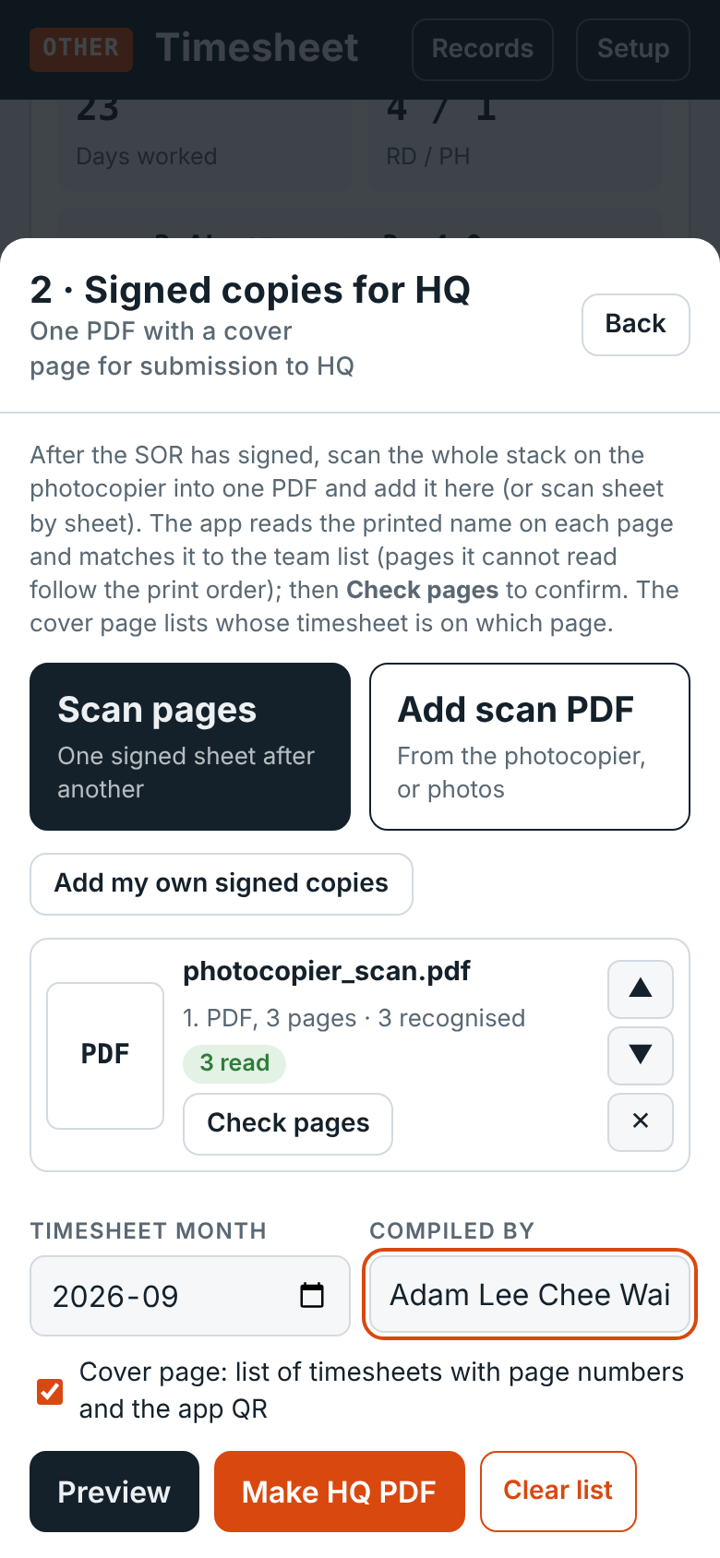
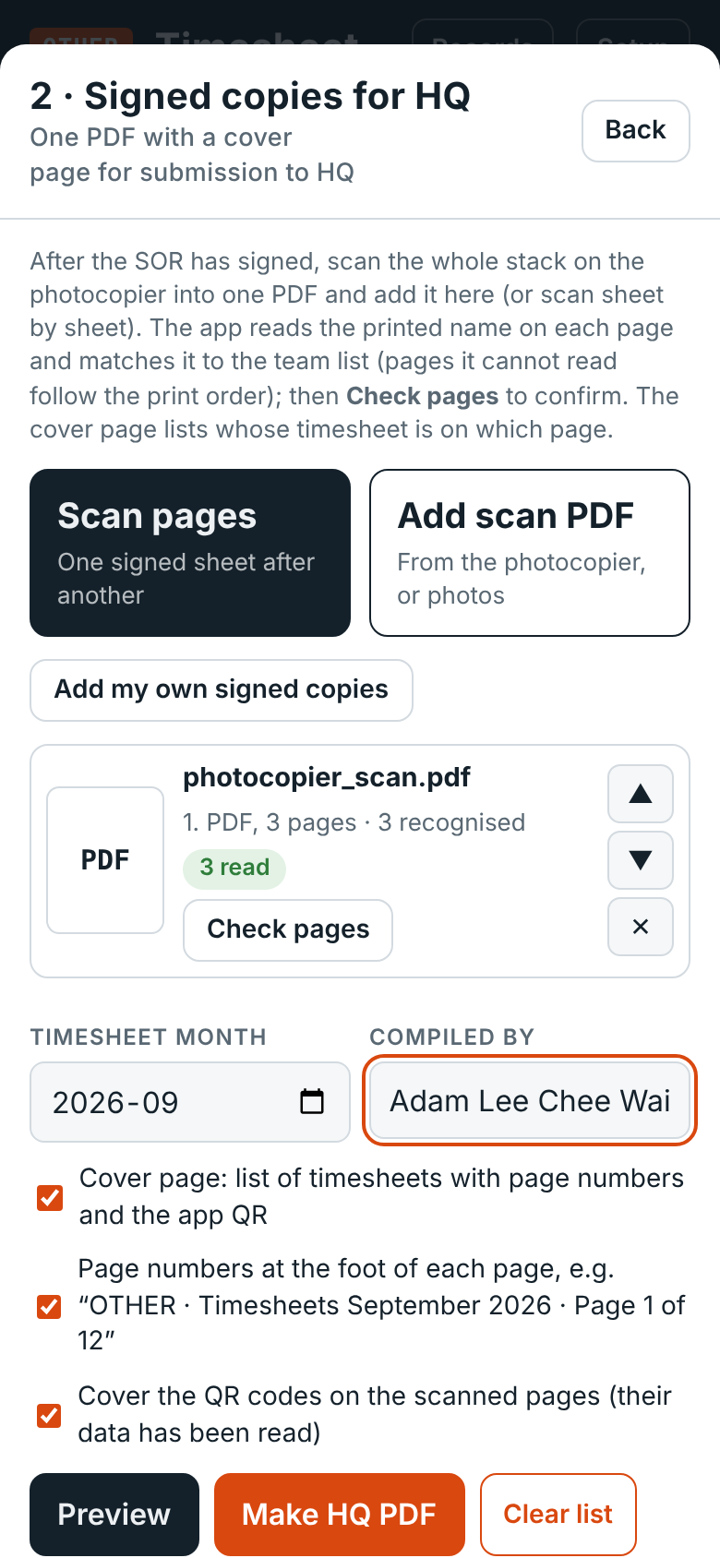
v0.9.7 beta - HQ page features
HQ page rotation, QR cover, footer option

diff --git a/index.html b/index.html
@@ -442,6 +442,8 @@ table.tbl td.n{font-family:var(--f-mono);text-align:right}
       <div><label class="lbl" for="b-month">Timesheet month</label><input type="month" id="b-month"></div>
       <div><label class="lbl" for="b-by">Compiled by</label><input type="text" id="b-by" placeholder="Name"></div>
       <div class="capopts span2"><label><input type="checkbox" id="b-cover" checked> Cover page: list of timesheets with page numbers and the app QR</label></div>
+      <div class="capopts span2"><label><input type="checkbox" id="b-footer" checked> <span>Page numbers at the foot of each page, e.g. “<span id="b-footer-eg">Timesheets · Page 1 of 12</span>”</span></label></div>
+      <div class="capopts span2"><label><input type="checkbox" id="b-hideqr" checked> Cover the QR codes on the scanned pages (their data has been read)</label></div>
     </div>
     <div class="btns"><button class="btn pri" id="b-preview" type="button">Preview</button><button class="btn acc" id="b-make" type="button">Make HQ PDF</button><button class="btn sm danger" id="b-clear" type="button">Clear list</button></div>
   </div>
@@ -1274,11 +1276,34 @@ function loadPdfLib() {
   if (window.PDFLib) return Promise.resolve();
   return PDFLibP || (PDFLibP = loadScript("lib/pdf-lib.min.js"));
 }
+/* a page thumbnail as it will appear in the HQ PDF: QR covered (if chosen), turned by deg */
+async function pageThumb(src, deg, box) {
+  if (!src) return "";
+  const img = await new Promise((res, rej) => { const i = new Image(); i.onload = () => res(i); i.onerror = rej; i.src = src; });
+  const base = document.createElement("canvas"); base.width = img.width; base.height = img.height; const b = base.getContext("2d"); b.drawImage(img, 0, 0);
+  if (box) { b.fillStyle = "#fff"; b.fillRect(box[0] * img.width, box[1] * img.height, (box[2] - box[0]) * img.width, (box[3] - box[1]) * img.height); }
+  return deg ? rotCanvas(base, deg).toDataURL("image/jpeg", 0.7) : base.toDataURL("image/jpeg", 0.7);
+}
+const hideQR = () => S.bundle.hideQR !== false, showFooter = () => S.bundle.footer !== false;
+/* box in the rendered page (0-1, from the top left, as shown with the page's own rotation r0) to PDF user space */
+function boxToPdf(b, r0, cb) {
+  const { x: ox, y: oy, width: w, height: h } = cb, map = (u, v) => r0 === 90 ? [v * w, u * h] : r0 === 180 ? [(1 - u) * w, v * h] : r0 === 270 ? [(1 - v) * w, (1 - u) * h] : [u * w, (1 - v) * h];
+  const a = map(b[0], b[1]), c = map(b[2], b[3]), x0 = Math.min(a[0], c[0]), y0 = Math.min(a[1], c[1]);
+  return { x: ox + x0, y: oy + y0, width: Math.abs(c[0] - a[0]), height: Math.abs(c[1] - a[1]) };
+}
+/* footer text at the bottom right of the page as viewed, whatever its rotation */
+function footerAt(p, tw) {
+  const { degrees } = PDFLib, R = ((p.getRotation().angle % 360) + 360) % 360, cb = p.getCropBox(), w = cb.width, h = cb.height, ox = cb.x, oy = cb.y;
+  if (R === 90) return { x: ox + w - 9, y: oy + h - 22 - tw, rotate: degrees(90) };
+  if (R === 180) return { x: ox + 22 + tw, y: oy + h - 9, rotate: degrees(180) };
+  if (R === 270) return { x: ox + 9, y: oy + 22 + tw, rotate: degrees(270) };
+  return { x: ox + w - 22 - tw, y: oy + 9, rotate: degrees(0) };
+}
 async function buildBundlePDF() {
   const items = await bundleItems();
-  S.bundle.month = $("#b-month").value || S.bundle.month; S.bundle.by = $("#b-by").value.trim() || S.bundle.by; S.bundle.cover = $("#b-cover").checked; save();
+  readBundleOpts();
   await loadPdfLib();
-  const { PDFDocument, StandardFonts, rgb } = PDFLib;
+  const { PDFDocument, StandardFonts, rgb, degrees } = PDFLib;
   const out = await PDFDocument.create();
   const font = await out.embedFont(StandardFonts.Helvetica);
   const A4 = [595.28, 841.89];
@@ -1293,26 +1318,39 @@ async function buildBundlePDF() {
   } else { const [by, bm] = (S.bundle.month || "").split("-").map(Number); claim = by ? `${MONTHS[bm - 1]} ${by}` : ""; }
   for (const it of items) {
     if (it.type === "application/pdf") {
-      try { const src = await PDFDocument.load(await it.blob.arrayBuffer(), { ignoreEncryption: true }); (await out.copyPages(src, src.getPageIndices())).forEach(pp => out.addPage(pp)); }
+      try {
+        const src = await PDFDocument.load(await it.blob.arrayBuffer(), { ignoreEncryption: true });
+        (await out.copyPages(src, src.getPageIndices())).forEach((pp, k) => {
+          const p = out.addPage(pp), r0 = ((p.getRotation().angle % 360) + 360) % 360, box = (it.qrb || [])[k];
+          if (hideQR() && box) p.drawRectangle(Object.assign(boxToPdf(box, r0, p.getCropBox()), { color: rgb(1, 1, 1) }));
+          const add = ((it.prot || [])[k] || 0) % 360; if (add) p.setRotation(degrees((r0 + add) % 360));
+        });
+      }
       catch (e) { console.warn(e); toast(`Could not read ${it.name}; it was left out.`); }
     } else {
       let blob = it.blob;
+      const box = hideQR() && (it.qrb || [])[0];
+      if (box) { const im = await loadImage(blob), cv = document.createElement("canvas"); cv.width = im.width; cv.height = im.height; const c = cv.getContext("2d"); c.drawImage(im, 0, 0); c.fillStyle = "#fff"; c.fillRect(box[0] * im.width, box[1] * im.height, (box[2] - box[0]) * im.width, (box[3] - box[1]) * im.height); blob = await new Promise(r => cv.toBlob(r, "image/jpeg", 0.88)); }
       if (it.rotate) blob = (await processImage(blob, { enhance: false, rotate: it.rotate })).blob;
       const bytes = await blob.arrayBuffer();
-      const img = it.type === "image/png" ? await out.embedPng(bytes) : await out.embedJpg(bytes);
+      const img = it.type === "image/png" && !box && !it.rotate ? await out.embedPng(bytes) : await out.embedJpg(bytes);
       const land = img.width > img.height, [pw, ph] = land ? [A4[1], A4[0]] : A4;
       const p = out.addPage([pw, ph]), m = 18, sc = Math.min((pw - 2 * m) / img.width, (ph - 2 * m - 10) / img.height);
       const w = img.width * sc, h = img.height * sc; p.drawImage(img, { x: (pw - w) / 2, y: (ph - h) / 2 + 5, width: w, height: h });
     }
   }
-  // page numbers on every page
+  // page numbers at the foot of every page (optional), the right way up on turned pages
   const n = out.getPageCount(), ref = `${S.pkg} · Timesheets ${claim}`;
-  out.getPages().forEach((p, i) => {
-    const { width } = p.getSize(), t = `${ref} · Page ${i + 1} of ${n}`, tw = font.widthOfTextAtSize(t, 7);
-    p.drawText(t, { x: width - 22 - tw, y: 9, size: 7, font, color: rgb(0.45, 0.45, 0.45) });
+  if (showFooter()) out.getPages().forEach((p, i) => {
+    const t = `${ref} · Page ${i + 1} of ${n}`, tw = font.widthOfTextAtSize(t, 7);
+    p.drawText(t, Object.assign(footerAt(p, tw), { size: 7, font, color: rgb(0.45, 0.45, 0.45) }));
   });
   out.setTitle(`Timesheet submission ${claim}`); out.setCreator(`${APP_CREDIT} (v${APP_VERSION})`);
   return { bytes: await out.save(), name: `TIMESHEETS_${S.pkg}_${S.bundle.month || "SUBMISSION"}_SIGNED.pdf`, claim };
+}
+function readBundleOpts() {
+  S.bundle.month = $("#b-month").value || S.bundle.month; S.bundle.by = $("#b-by").value.trim() || S.bundle.by; S.bundle.cover = $("#b-cover").checked;
+  S.bundle.hideQR = $("#b-hideqr").checked; S.bundle.footer = $("#b-footer").checked; save();
 }
 async function makeBundle() {
   if (!(await bundleItems()).length) { toast("Add the signed copies first."); return; }
@@ -1324,16 +1362,16 @@ async function makeBundle() {
 async function previewBundle() {
   const items = await bundleItems();
   if (!items.length) { toast("Add the signed copies first."); return; }
-  S.bundle.month = $("#b-month").value || S.bundle.month; S.bundle.by = $("#b-by").value.trim() || S.bundle.by; S.bundle.cover = $("#b-cover").checked; save();
+  readBundleOpts();
   if (!LOGO_DATAURL) await logoDataURL("templates/logo.jpeg");
   let h = "", pg = 0;
   if (S.bundle.cover !== false) { const cv = coverOps(items); cv.pages.forEach(ops => { pg++; h += `<div class="pvpage"><div class="pvsheet">${opsSVG(ops, cv.W, cv.H)}</div><span>Page ${pg} · cover</span></div>`; }); }
   for (const it of items) {
-    if (it.type === "application/pdf" && (it.thumbs || []).length) { it.thumbs.forEach((t, k) => { pg++; const l = (it.labels || [])[k]; h += `<div class="pvpage"><div class="pvsheet"><img src="${t}" alt=""></div><span>Page ${pg} · ${esc((l && l.who) || "—")}</span></div>`; }); }
+    if (it.type === "application/pdf" && (it.thumbs || []).length) { for (const [k, t] of it.thumbs.entries()) { pg++; const l = (it.labels || [])[k], u = await pageThumb(t, (it.prot || [])[k] || 0, hideQR() ? (it.qrb || [])[k] : null); h += `<div class="pvpage"><div class="pvsheet"><img src="${u}" alt=""></div><span>Page ${pg} · ${esc((l && l.who) || "—")}</span></div>`; } }
     else if (it.type === "application/pdf") { h += `<div class="pvpage"><div class="pvsheet pvpdf"><b>PDF</b><span>${esc(it.name)}</span><span>${it.pages} page${it.pages > 1 ? "s" : ""}</span></div><span>Page ${pg + 1}${it.pages > 1 ? "–" + (pg + it.pages) : ""} · ${esc(it.who || "—")}</span></div>`; pg += it.pages; }
     else { pg++; const u = URL.createObjectURL(it.blob); h += `<div class="pvpage"><div class="pvsheet"><img src="${u}" alt="" style="transform:rotate(${it.rotate || 0}deg)"></div><span>Page ${pg} · ${esc(it.who || "—")} ${esc(it.month || "")}</span></div>`; }
   }
-  genSheet("Preview: HQ PDF", `${pg} page${pg > 1 ? "s" : ""}`, `<div class="pvlist">${h}</div><div class="btns"><button class="btn acc" type="button" id="pv-make">Make HQ PDF</button></div>`);
+  genSheet("Preview: HQ PDF", `${pg} page${pg > 1 ? "s" : ""}${showFooter() ? "" : " · no page numbers"}${hideQR() ? " · QR codes covered" : ""}`, `<div class="pvlist">${h}</div><div class="btns"><button class="btn acc" type="button" id="pv-make">Make HQ PDF</button></div>`);
   $("#pv-make").onclick = () => { closeSheet("#sh-gen"); makeBundle(); };
 }
 async function previewTeam() {
@@ -2172,8 +2210,27 @@ async function readPageId(src, w, h) {
     const sc = Math.min(1, 1500 / Math.max(sw, sh)), cv = document.createElement("canvas"); cv.width = Math.round(sw * sc); cv.height = Math.round(sh * sc);
     const c = cv.getContext("2d", { willReadFrequently: true }); c.fillStyle = "#fff"; c.fillRect(0, 0, cv.width, cv.height); c.drawImage(src, sx, sy, sw, sh, 0, 0, cv.width, cv.height);
     let t = null; try { t = await decodeQRFromCanvas(cv); } catch (e) {}
-    const id = parsePageId(t); if (id) return id;
+    const id = parsePageId(t); if (!id) continue;
+    // where the QR is (to cover it in the HQ PDF) and which way up the page is
+    try { const g = await qrGeometry(cv); if (g) {
+      const P = q => ({ x: (sx + q.x / sc) / w, y: (sy + q.y / sc) / h }), tl = P(g.tl), tr = P(g.tr), br = P(g.br), bl = P(g.bl), pts = [tl, tr, br, bl];
+      if (/^TS1\|/.test(t)) {   // the full data QR has two lines of small text to its left: cover them too
+        const vx = (tr.x - tl.x) * w, vy = (tr.y - tl.y) * h, len = Math.hypot(vx, vy) || 1, k = 3.2 * len;
+        [tl, bl].forEach(q => pts.push({ x: q.x - vx / len * k / w, y: q.y - vy / len * k / h }));
+      }
+      const xs = pts.map(q => q.x), ys = pts.map(q => q.y), pad = 0.12 * Math.hypot((tr.x - tl.x) * w, (tr.y - tl.y) * h);
+      id.qrBox = [Math.max(0, Math.min(...xs) - pad / w), Math.max(0, Math.min(...ys) - pad / h), Math.min(1, Math.max(...xs) + pad / w), Math.min(1, Math.max(...ys) + pad / h)];
+      if (g.oriented) { const a = Math.atan2((tr.y - tl.y) * h, (tr.x - tl.x) * w) * 180 / Math.PI; id.rot = (360 - (Math.round(a / 90) * 90 + 360) % 360) % 360; }
+    } } catch (e) {}
+    return id;
   }
+  return null;
+}
+/* corners of the QR in a canvas: jsQR gives them in the symbol's own frame (so the page orientation follows) */
+async function qrGeometry(cv) {
+  try { await loadJsQR(); const ctx = cv.getContext("2d", { willReadFrequently: true }), r = jsQR(ctx.getImageData(0, 0, cv.width, cv.height).data, cv.width, cv.height, { inversionAttempts: "attemptBoth" });
+    if (r) { const L = r.location; return { tl: L.topLeftCorner, tr: L.topRightCorner, br: L.bottomRightCorner, bl: L.bottomLeftCorner, oriented: true }; } } catch (e) {}
+  if ("BarcodeDetector" in window) { try { const d = await new BarcodeDetector({ formats: ["qr_code"] }).detect(cv); if (d.length) { const b = d[0].boundingBox; return { tl: { x: b.x, y: b.y }, tr: { x: b.x + b.width, y: b.y }, br: { x: b.x + b.width, y: b.y + b.height }, bl: { x: b.x, y: b.y + b.height }, oriented: false }; } } catch (e) {} }
   return null;
 }
 async function pageIdsFor(blob, type) {
@@ -2373,16 +2430,17 @@ async function analysePages(blob, type) {
   const names = team.map(d => d.profile.name), out = []; let ocrErr = "";
   await pageCanvases(blob, type, async (cv, i, n) => {
     $("#busy-msg").textContent = `Reading page ${i + 1} of ${n}…`;
-    let label = null;
+    let label = null, rot = null, qrBox = null;
     const id = await readPageId(cv, cv.width, cv.height).catch(() => null);
-    if (id) label = Object.assign({ who: id.who, ym: id.ym, via: "qr", rec: id.rec }, id.hrs != null ? { hrs: id.hrs, ot: id.ot, desig: id.desig } : {});
+    if (id) { label = Object.assign({ who: id.who, ym: id.ym, via: "qr", rec: id.rec }, id.hrs != null ? { hrs: id.hrs, ot: id.ot, desig: id.desig } : {}); if (id.rot != null) rot = id.rot; qrBox = id.qrBox || null; }
     let crop = "";
     if (!label && !ocrErr) {
       const r = await readNameOnPage(cv, names);
       if (r.error) ocrErr = r.error;
-      else { crop = r.crop; if (r.match) { const d = teamFor(r.match); label = { who: r.match, ym: d ? d.month : "", via: "name", score: +r.score.toFixed(2), raw: r.raw }; } else if (r.raw) label = { who: "", raw: r.raw, via: "unsure" }; }
+      else { crop = r.crop; rot = r.rot; if (r.match) { const d = teamFor(r.match); label = { who: r.match, ym: d ? d.month : "", via: "name", score: +r.score.toFixed(2), raw: r.raw }; } else if (r.raw) label = { who: "", raw: r.raw, via: "unsure" }; }
     }
-    out.push({ label, thumb: thumbOf(cv), crop });
+    if (rot == null) rot = cv.height > cv.width ? 90 : 0;     // a portrait page holds the landscape form turned
+    out.push({ label, thumb: thumbOf(cv), crop, rot, qrBox });
   });
   // pages still unknown: remaining team names in print order (marked so they are checked)
   const used = new Set(out.map(p => p.label && p.label.who && normName(p.label.who)).filter(Boolean));
@@ -2406,10 +2464,15 @@ function pcFields(k, l) {
 async function openPageCheck(id) {
   const it = await DB.get(id); if (!it) return;
   const names = team.map(d => d.profile.name), labels = it.labels || [], thumbs = it.thumbs || [], crops = it.crops || [];
+  const isPdf = it.type === "application/pdf", prot = Array.from({ length: it.pages }, (_, k) => (it.prot || [])[k] || 0);
+  const tview = async k => isPdf ? pageThumb(thumbs[k], prot[k], hideQR() ? (it.qrb || [])[k] : null) : thumbs[k] || "";
+  const views = []; for (let k = 0; k < it.pages; k++) views.push(await tview(k));
   const VIA = { qr: "from the QR", name: "name read", order: "print order: check", unsure: "not sure: check" };
   genSheet("Check pages", `${esc(it.name)} · ${it.pages} page${it.pages > 1 ? "s" : ""}`, `
-    <div class="rglist">${Array.from({ length: it.pages }, (_, k) => { const l = labels[k] || {}; return `<div class="rgrow" style="grid-template-columns:72px minmax(0,1fr);display:grid;gap:8px;align-items:start">
-      <img src="${thumbs[k] || ""}" alt="" style="width:72px;border:1px solid var(--line);border-radius:4px;background:#fff">
+    ${isPdf ? `<div class="btns" style="margin-bottom:6px"><button class="btn sm" type="button" data-protall="-90">⟲ Turn all left</button><button class="btn sm" type="button" data-protall="90">⟳ Turn all right</button><span class="small muted" style="align-self:center">Pages are turned upright automatically where the app can tell. The cover page stays portrait.</span></div>` : ""}
+    <div class="rglist">${Array.from({ length: it.pages }, (_, k) => { const l = labels[k] || {}; return `<div class="rgrow" style="grid-template-columns:96px minmax(0,1fr);display:grid;gap:8px;align-items:start">
+      <div style="display:grid;gap:4px;justify-items:center"><img data-pthumb="${k}" src="${views[k]}" alt="" style="width:96px;max-height:96px;object-fit:contain;border:1px solid var(--line);border-radius:4px;background:#fff">
+        ${isPdf ? `<div style="display:flex;gap:4px"><button class="btn sm" type="button" data-prot="${k}|-90" aria-label="Turn page ${k + 1} left" style="min-width:40px">⟲</button><button class="btn sm" type="button" data-prot="${k}|90" aria-label="Turn page ${k + 1} right" style="min-width:40px">⟳</button></div>` : ""}</div>
       <div style="display:grid;gap:5px;min-width:0"><b class="small">Page ${k + 1} <span class="tag ${l.via === "qr" || l.via === "name" ? "ok" : "need"}">${VIA[l.via] || "not recognised"}</span></b>
         ${crops[k] ? `<img src="${crops[k]}" alt="Name as read" style="width:100%;border:1px solid var(--line);border-radius:4px">` : ""}
         <input type="text" data-pk="${k}" value="${esc(l.who || "")}" placeholder="Name (blank: not a timesheet)" list="team-names" aria-label="Name on page ${k + 1}">
@@ -2424,6 +2487,11 @@ async function openPageCheck(id) {
     ["desig", "hrs", "ot"].forEach(f => { const el = box.querySelector(`[data-f="${f}"]`); if (el && (el.value === "" || el.value === el.dataset.auto)) el.value = a[f]; if (el) el.dataset.auto = a[f]; });
     const hint = box.querySelector("[data-pch]"); if (hint) hint.textContent = who && !box.querySelector('[data-f="hrs"]').value ? "No hours found: type them from the signed copy" : "";
   };
+  $("#gen-body").onclick = async e => {
+    const one = e.target.closest("[data-prot]"), all = e.target.closest("[data-protall]"); if (!one && !all) return;
+    const ks = one ? [Number(one.dataset.prot.split("|")[0])] : prot.map((_, k) => k), d = Number(one ? one.dataset.prot.split("|")[1] : all.dataset.protall);
+    for (const k of ks) { prot[k] = ((prot[k] + d) % 360 + 360) % 360; const im = $(`#gen-body [data-pthumb="${k}"]`); if (im) im.src = await tview(k); }
+  };
   $("#pc-save").onclick = async () => {
     $$("#gen-body input[data-pk]").forEach(inp => {
       const k = Number(inp.dataset.pk), typed = inp.value.trim(), d = teamFor(typed), who = d ? d.profile.name : typed, old = labels[k] || {};
@@ -2437,7 +2505,7 @@ async function openPageCheck(id) {
       if (o != null && fmt1(o) !== auto.ot) ed.ot = o;
       if (Object.keys(ed).length) labels[k].edit = ed; else delete labels[k].edit;
     });
-    it.labels = labels; await DB.put(it); closeSheet("#sh-gen"); renderHQ(); toast("Pages saved.");
+    it.labels = labels; if (isPdf) it.prot = prot; await DB.put(it); closeSheet("#sh-gen"); renderHQ(); toast("Pages saved.");
   };
 }
 
@@ -2502,10 +2570,11 @@ async function addBundle(files, meta = {}) {
       const pages = type === "application/pdf" ? await pdfPageCount(blob) : 1;
       let pagesInfo = []; try { pagesInfo = await analysePages(blob, type); } catch (e) { console.warn(e); toast("Could not read the pages: " + e.message); }
       const labels = pagesInfo.map(x => x.label), thumbs = pagesInfo.map(x => x.thumb), crops = pagesInfo.map(x => x.crop);
+      const prot = pagesInfo.map(x => type === "application/pdf" ? x.rot || 0 : 0), qrb = pagesInfo.map(x => x.qrBox || null);
       found += labels.filter(l => l && (l.via === "qr" || l.via === "name")).length; total += labels.length || pages;
       labels.forEach(l => { if (l && l.rec && !team.some(t => normName(t.profile.name) === normName(l.who) && t.month === l.ym)) { addTeamRecord(l.rec); addedTeam++; } delete (l || {}).rec; });
       const l0 = labels.length === 1 ? labels[0] : null;
-      await DB.put({ id: uid(), scope: "bundle", name: f.name || "page.jpg", type, blob, order: order++, labels, thumbs, crops, who: (l0 && l0.who) || meta.who || g.who || "", month: (l0 && ymLabel(l0.ym)) || meta.month || g.month || "", ym: (l0 && l0.ym) || "", pages: labels.length || pages, rotate: 0, added: new Date().toISOString() });
+      await DB.put({ id: uid(), scope: "bundle", name: f.name || "page.jpg", type, blob, order: order++, labels, thumbs, crops, prot, qrb, who: (l0 && l0.who) || meta.who || g.who || "", month: (l0 && ymLabel(l0.ym)) || meta.month || g.month || "", ym: (l0 && l0.ym) || "", pages: labels.length || pages, rotate: 0, added: new Date().toISOString() });
     }
   });
   if (total) toast(`${found} of ${total} page${total > 1 ? "s" : ""} recognised${addedTeam ? `; ${addedTeam} added to the team list` : ""}. Tap Check pages to confirm.`);
@@ -2531,7 +2600,7 @@ async function renderHQ() {
   $("#b-list").innerHTML = h || `<div class="empty"><ol class="steps small"><li><span>Collect the signed hardcopies from the team.</span></li><li><span><b>Scan pages</b>: one sheet after another, the edges are found for you.</span></li><li><span>Type the name and month for each, then <b>Make HQ PDF</b> and send it to HQ.</span></li></ol></div>`;
   if (document.activeElement?.id !== "b-month") $("#b-month").value = S.bundle.month || curYM();
   if (document.activeElement?.id !== "b-by") $("#b-by").value = S.bundle.by || S.profile.name || "";
-  $("#b-cover").checked = S.bundle.cover !== false;
+  $("#b-cover").checked = S.bundle.cover !== false; $("#b-footer").checked = showFooter(); $("#b-footer-eg").textContent = `${S.pkg} · Timesheets ${ymLabel(S.bundle.month || curYM())} · Page 1 of 12`; $("#b-hideqr").checked = hideQR();
   // team
   renderMarkSeg();
   $("#t-signall").hidden = !(roleIs("re") && S.digiSign); $("#t-re-note").hidden = !(roleIs("re") && S.digiSign);
@@ -2551,7 +2620,7 @@ async function renderHQ() {
    ================================================================ */
 function openSheet(id) { $(id).hidden = false; document.body.style.overflow = "hidden"; }
 function closeSheet(id) { $(id).hidden = true; if (!$$(".sheet:not([hidden])").length && $("#cam").hidden) document.body.style.overflow = ""; }
-function genSheet(title, sub, html) { $("#gen-title").firstChild.textContent = title; $("#gen-sub").textContent = sub || ""; $("#gen-body").innerHTML = html; $("#gen-body").onchange = null; openSheet("#sh-gen"); }
+function genSheet(title, sub, html) { $("#gen-title").firstChild.textContent = title; $("#gen-sub").textContent = sub || ""; $("#gen-body").innerHTML = html; $("#gen-body").onchange = null; $("#gen-body").onclick = null; openSheet("#sh-gen"); }
 let toastT = 0;
 function toast(msg) { const t = $("#toast"); t.textContent = msg; t.hidden = false; clearTimeout(toastT); toastT = setTimeout(() => t.hidden = true, 3200); }
 
@@ -2784,6 +2853,8 @@ function wire() {
   $("#b-month").onchange = e => { S.bundle.month = e.target.value; save(); };
   $("#b-by").onchange = e => { S.bundle.by = e.target.value; save(); };
   $("#b-cover").onchange = e => { S.bundle.cover = e.target.checked; save(); };
+  $("#b-footer").onchange = e => { S.bundle.footer = e.target.checked; save(); };
+  $("#b-hideqr").onchange = e => { S.bundle.hideQR = e.target.checked; save(); };
   $("#b-make").onclick = makeBundle;
   $("#b-preview").onclick = () => busy("Preparing the preview…", previewBundle);
   $("#t-preview").onclick = previewTeam;

diff --git a/sw.js b/sw.js
@@ -1,6 +1,6 @@
 /* Offline use: network first (so updates arrive), cached copy when there is no signal.
    Bump the version after changing files so phones fetch the new ones. */
-const C = "ts-v0.9.7-3";
+const C = "ts-v0.9.7-4";
 const PRE = ["./", "index.html", "manifest.webmanifest", "icon-192.png", "icon-512.png",
   "lib/jspdf.umd.min.js", "lib/jszip.min.js", "lib/pdf-lib.min.js", "lib/qrcode.min.js", "lib/jsQR.min.js", "lib/pdfjs.min.js", "lib/pdfjs.worker.min.js",
   "app-data.js", "templates/form.xlsx", "templates/form.layout.json", "templates/logo.jpeg",

diff --git a/tests/test_hq_pages.py b/tests/test_hq_pages.py
@@ -1,0 +1,91 @@
+"""HQ PDF from a photocopier scan: pages turned upright, QR codes covered, footer optional.
+
+    python3 -m http.server 8765 &
+    python3 tests/test_hq_pages.py [outdir]
+
+Three timesheets are printed (two with the summary QR, one with the full data QR) and
+"photocopied" at 200 dpi onto portrait pages: page 1 turned clockwise, page 2 anticlockwise,
+page 3 upright landscape. The HQ PDF must keep the cover portrait, show every timesheet
+landscape and upright, have the QR areas blank, and put the footer only when asked.
+"""
+import base64, subprocess, sys
+from pathlib import Path
+from PIL import Image
+from playwright.sync_api import sync_playwright
+
+URL = "http://localhost:8765/index.html"
+OUT = Path(sys.argv[1] if len(sys.argv) > 1 else "test-out"); OUT.mkdir(exist_ok=True)
+errors = []
+B64 = "const b = new Uint8Array(bytes); let s=''; for (let i=0;i<b.length;i+=8192) s += String.fromCharCode(...b.subarray(i,i+8192)); return btoa(s);"
+
+with sync_playwright() as p:
+    br = p.chromium.launch()
+    pg = br.new_page(viewport={"width": 390, "height": 844})
+    pg.on("pageerror", lambda e: errors.append(str(e)))
+    pg.on("dialog", lambda d: d.accept())
+    pg.goto(URL); pg.wait_for_selector("#w-name")
+    pg.fill("#w-name", "Ts. Adam Lee Chee Wai"); pg.click("#w-go")
+    r = pg.evaluate("""async () => {
+        S.ui.y = 2026; S.ui.m = 8; save(); fillMonth(false); S.profile.status = 'Resident Engineer'; S.role = 'compiler'; save();
+        const o = S.over[S.pkg] = S.over[S.pkg] || {};
+        team = []; addTeamRecord(dataRecord());
+        const d2 = dataRecord(); d2.profile.name = 'Nurul Aina binti Hassan'; d2.profile.status = 'Inspector of Works'; addTeamRecord(d2);
+        const d3 = dataRecord(); d3.profile.name = 'Mohd Hafiz bin Kassim'; d3.profile.status = 'Site Engineer'; addTeamRecord(d3);
+        o.pageId = 'sum'; save(); const a = await makePDF([teamSheet(team[0]), teamSheet(team[1])], 'a');
+        o.pageId = 'data'; save(); const b = await makePDF([teamSheet(team[2])], 'b');
+        o.pageId = 'off'; save();
+        await loadPdfJs(); await loadPdfLib();
+        const out = await PDFLib.PDFDocument.create(), turns = [90, -90, 0];
+        let idx = 0;
+        for (const blob of [a, b]) {
+          const pdf = await pdfjsLib.getDocument({data: new Uint8Array(await blob.arrayBuffer())}).promise;
+          for (let i = 1; i <= pdf.numPages; i++, idx++) {
+            const page = await pdf.getPage(i), vp = page.getViewport({scale: 200 / 72});
+            let cv = document.createElement('canvas'); cv.width = vp.width; cv.height = vp.height;
+            await page.render({canvasContext: cv.getContext('2d'), viewport: vp}).promise;
+            const t = turns[idx];
+            if (t) { const r = document.createElement('canvas'); r.width = cv.height; r.height = cv.width; const x = r.getContext('2d'); x.translate(r.width / 2, r.height / 2); x.rotate(t * Math.PI / 180); x.drawImage(cv, -cv.width / 2, -cv.height / 2); cv = r; }
+            const jpg = await new Promise(res => cv.toBlob(res, 'image/jpeg', .8)), img = await out.embedJpg(await jpg.arrayBuffer());
+            const pp = out.addPage([img.width * 72 / 200, img.height * 72 / 200]); pp.drawImage(img, {x: 0, y: 0, width: pp.getWidth(), height: pp.getHeight()});
+          }
+        }
+        const scan = new File([await out.save()], 'photocopier.pdf', {type: 'application/pdf'});
+        await addBundle([scan]);
+        const it = (await bundleItems())[0];
+        $('#b-month').value = '2026-09';
+        const pdfOf = async () => { const res = await buildBundlePDF(); const bytes = res.bytes; """ + B64 + """ };
+        const withFooter = await pdfOf();
+        $('#b-footer').checked = false; const noFooter = await pdfOf();
+        return { prot: it.prot, qrb: it.qrb.map(b => !!b), who: it.labels.map(l => l && l.who), withFooter, noFooter };
+    }""")
+    (OUT / "hq_footer.pdf").write_bytes(base64.b64decode(r.pop("withFooter")))
+    (OUT / "hq_nofooter.pdf").write_bytes(base64.b64decode(r.pop("noFooter")))
+    print(r)
+    assert r["prot"] == [270, 90, 0], r["prot"]          # turns that put each page upright
+    assert r["qrb"] == [True, True, True], r["qrb"]
+    br.close()
+
+info = subprocess.run(["pdfinfo", "-f", "1", "-l", "4", str(OUT / "hq_footer.pdf")], capture_output=True, text=True).stdout
+sizes = [l for l in info.splitlines() if "size" in l and "Page" in l]
+print("\n".join(sizes))
+rot = [l for l in info.splitlines() if "rot" in l]
+subprocess.run(["pdftoppm", "-r", "50", "-png", str(OUT / "hq_footer.pdf"), str(OUT / "hq")], check=True)
+pages = sorted(OUT.glob("hq-*.png"))
+dims = [Image.open(x).size for x in pages]
+print(dims)
+assert dims[0][1] > dims[0][0], "cover portrait"
+assert all(w > h for w, h in dims[1:]), "timesheets landscape"
+# QR areas blank: bottom-right corner region of each timesheet page has no dark QR modules
+for x in pages[1:]:
+    im = Image.open(x).convert("L"); w, h = im.size
+    corner = im.crop((int(w * 0.80), int(h * 0.78), w, int(h * 0.97)))
+    dark = sum(1 for v in corner.getdata() if v < 100) / (corner.width * corner.height)
+    print(x.name, "dark in QR corner", round(dark, 3))
+    assert dark < 0.02, (x.name, dark)
+# footer text present only when asked
+t1 = subprocess.run(["pdftotext", str(OUT / "hq_footer.pdf"), "-"], capture_output=True, text=True).stdout
+t2 = subprocess.run(["pdftotext", str(OUT / "hq_nofooter.pdf"), "-"], capture_output=True, text=True).stdout
+assert "Page 4 of 4" in t1 and "Page 1 of 4" not in t2, "footer option"
+print("errors:", errors)
+assert not errors
+print("OK")

diff --git a/README.md b/README.md
@@ -30,7 +30,7 @@ Filling in the timesheet spreadsheet at the end of the month needs a laptop. The
 | **Roles** | *Staff*, *Compiler* or *RE* (Setup). Staff see only their own timesheet; the compiler and RE also get HQ submission; only the RE can sign digitally under *Verified by PYKP*, with a PIN. |
 | **Digital signature** (optional, off by default) | The timesheet is normally signed by hand. If switched on in Setup: draw your signature or take a photo of it, protected by a PIN. **Sign** puts it on your timesheet; a drawn signature goes with your QR to the RE, who can sign the whole team in one go. A signature is dropped if the hours change after signing. Its position can be dragged and resized. The SOR still signs and stamps the hardcopy. |
 | **Scan matching** | No marks on the form: the app reads the printed name on each scanned page (offline text recognition) and matches it to the team list; pages it cannot read follow the print order; **Check pages** to confirm the name, and to type or correct the designation, normal and OT hours for the cover page (marked * when entered by the compiler). Optional mark under the form, chosen on the Print / PDF screen: a **Summary QR** (about 13 mm: project, month, name, designation, normal and OT hours) or a 28 mm full data QR; none by default. |
-| **HQ submission** | For the compiler. **1 · Team timesheets**: scan everyone's QR, preview, then print all the timesheets in one PDF for signature, or **one Excel workbook with a sheet per person**, or a summary CSV. **2 · Signed copies**: add the photocopier's scan PDF (or scan sheet by sheet); the names are read from the pages, **Check pages**, preview, then make **one PDF** with a digitally generated cover page (list of timesheets with hours and page numbers, app QR) and numbered pages. |
+| **HQ submission** | For the compiler. **1 · Team timesheets**: scan everyone's QR, preview, then print all the timesheets in one PDF for signature, or **one Excel workbook with a sheet per person**, or a summary CSV. **2 · Signed copies**: add the photocopier's scan PDF (or scan sheet by sheet); the names are read from the pages, **Check pages**, preview, then make **one PDF** with a digitally generated cover page (list of timesheets with hours and page numbers, app QR) and numbered pages (optional). Scanned pages are turned upright and landscape automatically (adjust in **Check pages**; the cover stays portrait), and the QR codes on the scans can be covered once read. |
 | **Feedback** | *Send feedback on WhatsApp* with the app version and phone type filled in. Set a number in `packages/index.json` (`feedbackWhatsApp`) to send it straight to the app owner. |
 | **Works offline** | Once opened, it works without signal. |
 
@@ -120,6 +120,7 @@ Set `appUrl` in `packages/index.json` to the app's address so the HQ cover page 
 | `tests/test_app.py` | Automatic check: fills a sample month; checks totals, status undo, QR round trip, document scanner steps, PDF, Excel and HQ PDF |
 | `tests/test_id_mark.py` | Automatic check: the summary QR stays small (29 × 29 squares, about 13 mm) and its name, designation and hours are read from a noisy 200 dpi scan |
 | `tests/test_sign_scan.py` | Automatic check: PIN, roles, signature dropped when hours change, signatures in the QR, PDF and Excel; a simulated 200 dpi photocopier scan recognised page by page and the team list rebuilt from it |
+| `tests/test_hq_pages.py` | Automatic check: a photocopier scan with pages turned both ways becomes a portrait cover plus upright landscape timesheets; QR codes covered; footer only when ticked |
 | `tests/test_color_fill.py` | Automatic check: colour fill off by default; on, the right columns are tinted in the PDF, preview and Excel (borders kept), text stays black |
 | `tests/test_cover_edit.py` | Automatic check: the compiler types designation and hours in Check pages; the cover page uses them, marked *; clearing a box restores the automatic value |
 | `GUIDE.md`, `ROADMAP.md`, `CHANGELOG.md`, `LICENSE.md` | User guide, trial plan, version history, licence |

diff --git a/GUIDE.md b/GUIDE.md
@@ -139,14 +139,18 @@ Set your role to **Compiler** or **RE** in Setup. **HQ submission** appears at t
 1. After the SOR has signed, scan the whole stack on the photocopier into one PDF and send it to your phone.
 2. **Add scan PDF** and pick it. The app reads the printed name on each page and matches it to the team list (pages turned sideways are fine). Pages it cannot read take the remaining names in print order. (Or **Scan pages** with the phone, one sheet after another.)
 3. Tap **Check pages**: each page shows a thumbnail, the name line as read, the name, and the **designation, normal hours and OT hours** for the cover page. Correct any page, then **Save**.
+   - **Turning pages:** the app turns each scanned timesheet upright and landscape by itself where it can tell (from the printed name or the QR). Use **⟲ / ⟳** under a page to turn it, or **Turn all left / right**. The cover page always stays portrait.
    - Hours come from the team list (QR collected in screen 1) or the summary QR on the page. If a box is empty (*No hours found*) or differs from the signed copy, type the figures from the signed copy. The cover page uses what you typed and marks those hours with **\***.
    - A name not in the team list can be typed in. Clear a box to go back to the automatic value.
-4. Set the **timesheet month** and **compiled by**, keep **Cover page** ticked.
+4. Set the **timesheet month** and **compiled by**. The ticks below:
+   - **Cover page** (on): the list of timesheets with page numbers and the app QR.
+   - **Page numbers at the foot of each page** (on): e.g. *Timesheets September 2026 · Page 1 of 12* after the project code. Untick to leave the pages without it.
+   - **Cover the QR codes on the scanned pages** (on): once their data has been read, the QR under each form (and the small text beside the full QR) is covered with white in the HQ PDF. The photocopier file itself is not changed.
 5. **Preview** shows the cover page and every page; then **Make HQ PDF** and send it to HQ.
 
 <p><img src="guide/17_bundle.png" alt="Signed copies for HQ: the photocopier PDF, 3 pages read" width="260">&nbsp;<img src="guide/18_check_pages.png" alt="Check pages: each page with the name as read, the name, designation, normal and OT hours" width="260"></p>
 
-The cover page is generated digitally (no signature needed): the list of timesheets with designation, normal hours, OT, pages and page numbers, anyone still pending, and the app QR. Every page of the HQ PDF is numbered.
+The cover page is generated digitally (no signature needed): the list of timesheets with designation, normal hours, OT, pages and page numbers, anyone still pending, and the app QR. Every page of the HQ PDF is numbered unless you untick the page numbers.
 
 <p><img src="guide/19_hq_preview.png" alt="Preview of the HQ PDF: cover page, then the scanned pages" width="300"></p>
 

diff --git a/CHANGELOG.md b/CHANGELOG.md
@@ -8,6 +8,9 @@ Versions before 1.0.0 are for testing. 1.0.0 will be the first public release.
 - A name not in the team list can be typed in Check pages, and **Check pages** is available for every scan.
 - The HQ list flags pages **without hours**.
 - **Colour for each day code** on the calendar, the day editor and *Select days*: RD grey, PH purple, AL blue, EL yellow, MC red, PKP green, any other code brown, with a legend under the calendar. The printed form stays as the official form.
+- **HQ PDF, scanned pages turned**: each scanned timesheet is turned upright and landscape automatically (from the printed name or the QR); **⟲ / ⟳** per page and **Turn all** in Check pages. The cover page stays portrait; the page numbers follow the turn.
+- **Cover the QR codes** on the scanned pages in the HQ PDF once their data has been read (on by default; the photocopier file is not changed).
+- **Page numbers at the foot** of each HQ PDF page can be switched off.
 - **Colour fill on the printed form** (optional, off by default): Print / PDF → *Colour fill* → *Colour by code*, also next to *Print all*. The day's column is lightly tinted for RD, PH and leave in the calendar colours; the text stays black. Applies to the PDF, the preview and the Excel file (borders kept).
 
 ## v0.9.6 beta – 16 October 2026
